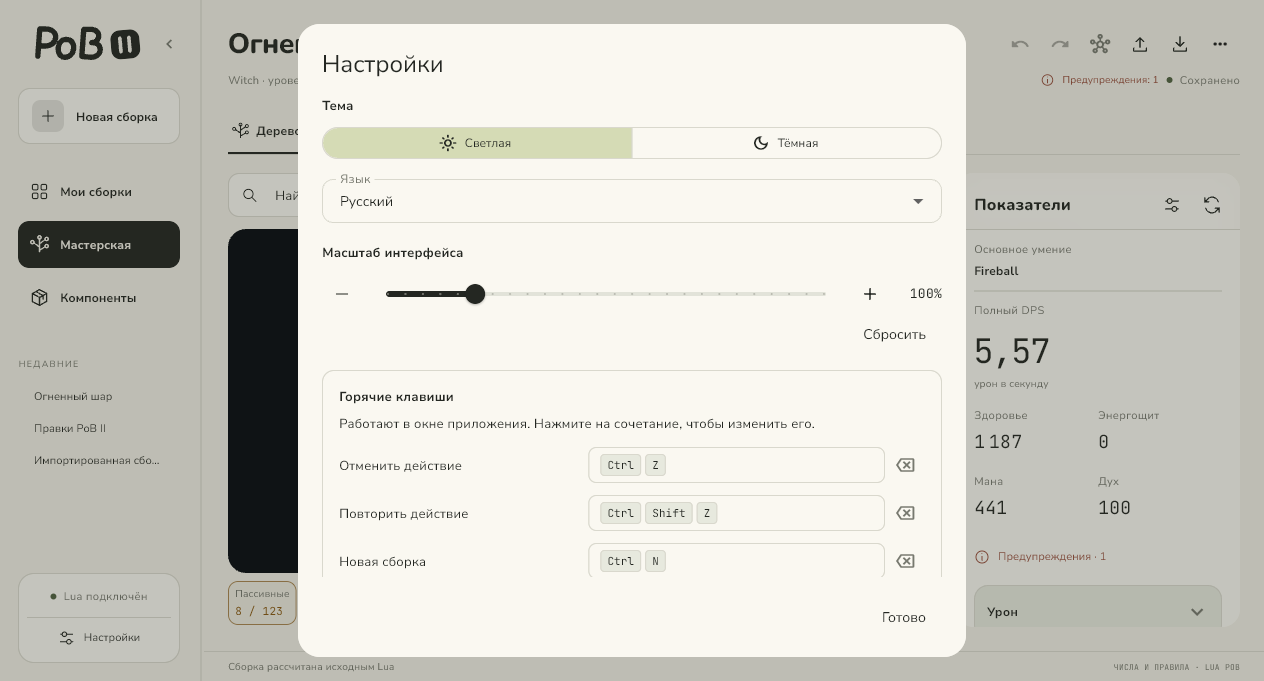
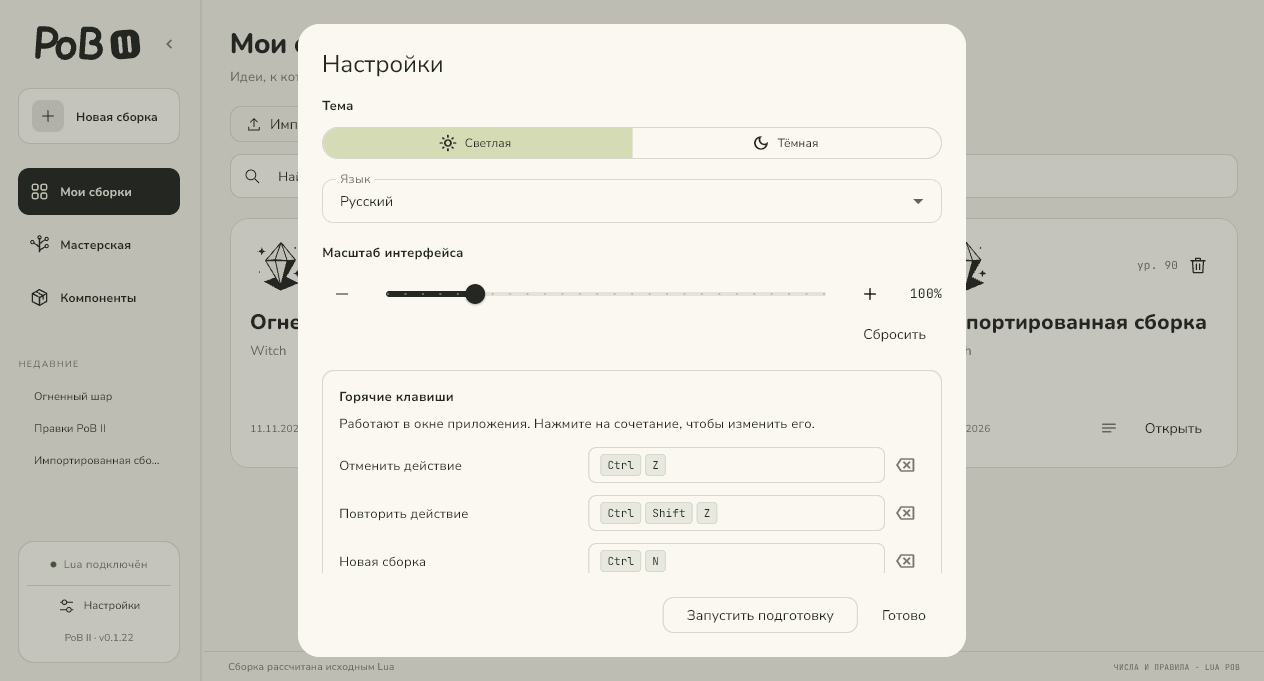
Обновить галерею PoB II для v0.1.22

diff --git a/docs/gallery.html b/docs/gallery.html
@@ -3,13 +3,13 @@
 <head>
   <meta charset="utf-8"><meta name="viewport" content="width=device-width, initial-scale=1">
   <meta name="theme-color" content="#f2efe5">
-  <meta name="description" content="Скриншоты PoB II v0.1.20. Дерево PoE 2, библиотека сборок, первый запуск, умения, экипировка и настройки." data-i18n-content="galleryDescription">
+  <meta name="description" content="Скриншоты PoB II v0.1.22. Дерево PoE 2, библиотека сборок, первый запуск, умения, экипировка и настройки." data-i18n-content="galleryDescription">
   <title data-i18n="galleryTitle">PoB II — галерея приложения</title>
   <link rel="icon" href="assets/brand/app-icon.svg" type="image/svg+xml">
   <link rel="stylesheet" href="styles/base.css"><link rel="stylesheet" href="styles/site.css?v=2"><link rel="stylesheet" href="styles/gallery.css">
   <script src="scripts/icons.js" defer></script><script src="scripts/site.js" defer></script><script src="scripts/gallery.js" defer></script>
   <link rel="stylesheet" href="styles/language.css">
-  <script src="scripts/site-strings.js" defer></script>
+  <script src="scripts/site-strings.js?v=0.1.22" defer></script>
   <script src="scripts/site-language.js" defer></script>
 </head>
 <body>
@@ -25,12 +25,12 @@
       </select><button class="icon-button" id="theme-toggle" aria-label="Включить тёмную тему" data-icon="moon" data-i18n-aria-label="darkTheme"></button></nav>
     </header>
     <main id="main">
-      <section class="gallery-heading reveal"><p class="eyebrow" data-i18n="galleryEyebrow">ГАЛЕРЕЯ / V0.1.20</p><h1><span data-i18n="galleryLineOne">Так выглядит</span><br><span data-i18n="galleryLineTwo">ваша мастерская.</span></h1><p data-i18n="galleryIntro">Снимки PoB II на Windows. Нажмите на снимок, чтобы рассмотреть детали. На телефоне оригинал откроется в отдельной вкладке для увеличения.</p></section>
-      <div class="gallery-section-heading"><h2 data-i18n="galleryRelease">В PoB II v0.1.20</h2></div>
+      <section class="gallery-heading reveal"><p class="eyebrow" data-i18n="galleryEyebrow">ГАЛЕРЕЯ / V0.1.22</p><h1><span data-i18n="galleryLineOne">Так выглядит</span><br><span data-i18n="galleryLineTwo">ваша мастерская.</span></h1><p data-i18n="galleryIntro">Снимки PoB II на Windows. Нажмите на снимок, чтобы рассмотреть детали. На телефоне оригинал откроется в отдельной вкладке для увеличения.</p></section>
+      <div class="gallery-section-heading"><h2 data-i18n="galleryRelease">В PoB II v0.1.22</h2></div>
       <div class="screenshot-grid">
-        <figure class="screenshot-card wide"><a target="_blank" rel="noopener" href="assets/screenshots/node-power.png" data-gallery data-title="Влияние узлов" data-description="Выберите характеристику, максимальное расстояние и состояние узлов. Строка результата перемещает фокус на узел, а список можно свернуть, сохранив подсветку." data-i18n-data-title="powerTitle" data-i18n-data-description="powerDescription"><img src="assets/screenshots/node-power.png" width="1028" height="681" alt="Фильтры и сворачиваемый список результатов над деревом пассивных умений" fetchpriority="high" data-i18n-alt="powerAlt"></a><figcaption><h3 data-i18n="powerCaption">Поиск узлов по характеристике</h3><p data-i18n="powerSummary">Фильтры сверху, результаты в компактном списке, дерево остаётся видно.</p></figcaption></figure>
+        <figure class="screenshot-card wide"><a target="_blank" rel="noopener" href="assets/screenshots/setup-wizard.png" data-gallery data-title="Мастер первого запуска" data-description="Мастер помогает установить компоненты, подключить Lua и найти папку сборок. Его можно открыть снова из настроек." data-i18n-data-title="firstRunTitle" data-i18n-data-description="firstRunDescription"><img src="assets/screenshots/setup-wizard.png" width="1264" height="681" alt="Окно мастера с пятью шагами и кнопкой «Установить компоненты»" fetchpriority="high" data-i18n-alt="firstRunAlt"></a><figcaption><h3 data-i18n="firstRunCaption">Мастер первого запуска</h3><p data-i18n="firstRunSummary">От установки компонентов до открытия первой сборки.</p></figcaption></figure>
+        <figure class="screenshot-card"><a target="_blank" rel="noopener" href="assets/screenshots/node-power.png" data-gallery data-title="Влияние узлов" data-description="Выберите характеристику, максимальное расстояние и состояние узлов. Строка результата перемещает фокус на узел, а список можно свернуть, сохранив подсветку." data-i18n-data-title="powerTitle" data-i18n-data-description="powerDescription"><img src="assets/screenshots/node-power.png" width="1028" height="681" alt="Фильтры и сворачиваемый список результатов над деревом пассивных умений" loading="lazy" data-i18n-alt="powerAlt"></a><figcaption><h3 data-i18n="powerCaption">Поиск узлов по характеристике</h3><p data-i18n="powerSummary">Фильтры сверху, результаты в компактном списке, дерево остаётся видно.</p></figcaption></figure>
         <figure class="screenshot-card"><a target="_blank" rel="noopener" href="assets/screenshots/library.png" data-gallery data-title="Мои сборки" data-description="Поиск и карточки XML из общей папки Path of Building. Расположение каталога и смена папки доступны по кнопке «Папка сборок»." data-i18n-data-title="libraryTitle" data-i18n-data-description="libraryDescription"><img src="assets/screenshots/library.png" width="1264" height="681" alt="Мои сборки с поиском, карточками персонажей и кнопкой «Папка сборок»" loading="lazy" data-i18n-alt="libraryAlt"></a><figcaption><h3 data-i18n="libraryTitle">Мои сборки</h3><p data-i18n="librarySummary">Быстрый поиск, импорт из PoB и доступ к общей папке.</p></figcaption></figure>
-        <figure class="screenshot-card"><a target="_blank" rel="noopener" href="assets/screenshots/first-run.png" data-gallery data-title="Первый запуск" data-description="PoB II сначала предложит загрузить недостающие компоненты, затем подключить папку сборок." data-i18n-data-title="firstRunTitle" data-i18n-data-description="firstRunDescription"><img src="assets/screenshots/first-run.png" width="1264" height="681" alt="Экран первого запуска с кнопкой «Подготовить PoB II»" loading="lazy" data-i18n-alt="firstRunAlt"></a><figcaption><h3 data-i18n="firstRunCaption">Пошаговая подготовка</h3><p data-i18n="firstRunSummary">На экране показано действие, нужное сейчас.</p></figcaption></figure>
       </div>
       <div class="gallery-section-heading"><h2 data-i18n="featuresTitle">Возможности приложения</h2><span data-i18n="featuresSummary">Дерево, умения, предметы и настройки</span></div>
       <div class="screenshot-grid">
@@ -38,7 +38,7 @@
         <figure class="screenshot-card"><a target="_blank" rel="noopener" href="assets/screenshots/tree-dark.png" data-gallery data-title="Подсказки и тёмная тема" data-description="Оригинальная подсказка узла в теме Gruvbox. Путь и влияние узла определяет Lua PoB." data-i18n-data-title="tooltipTitle" data-i18n-data-description="tooltipDescription"><img src="assets/screenshots/tree-dark.png" width="1028" height="681" alt="Тёмная тема Gruvbox и всплывающая подсказка узла" loading="lazy" data-i18n-alt="tooltipAlt"></a><figcaption><h3 data-i18n="tooltipCaption">Контекст при наведении</h3><p data-i18n="tooltipSummary">Описание узла и его влияние на сборку без постоянных подписей.</p></figcaption></figure>
         <figure class="screenshot-card"><a target="_blank" rel="noopener" href="assets/screenshots/skills.png" data-gallery data-title="Умения и камни поддержки" data-description="Список групп и каталог камней. Перетаскивание добавляет и убирает поддержки; совместимость проверяется в Lua." data-i18n-data-title="skillsTitle" data-i18n-data-description="skillsDescription"><img src="assets/screenshots/skills.png" width="1028" height="681" alt="Группы умений слева и каталог камней поддержки справа" loading="lazy" data-i18n-alt="skillsAlt"></a><figcaption><h3 data-i18n="skillsCaption">Своя комбинация камней</h3><p data-i18n="skillsSummary">Умение первым, поддержки рядом. Каталог и проверка совместимости.</p></figcaption></figure>
         <figure class="screenshot-card"><a target="_blank" rel="noopener" href="assets/screenshots/equipment.png" data-gallery data-title="Экипировка персонажа" data-description="Слоты по игровому образцу, два набора оружия и описание выбранного предмета из PoB." data-i18n-data-title="equipmentTitle" data-i18n-data-description="equipmentDescription"><img src="assets/screenshots/equipment.png" width="1028" height="681" alt="Схема экипировки с предметами и описанием выбранной ячейки" loading="lazy" data-i18n-alt="equipmentAlt"></a><figcaption><h3 data-i18n="equipmentCaption">Экипировка на своих местах</h3><p data-i18n="equipmentSummary">Схема персонажа, описание предмета, замена и два набора оружия.</p></figcaption></figure>
-        <figure class="screenshot-card"><a target="_blank" rel="noopener" href="assets/screenshots/settings.png" data-gallery data-title="Оформление и масштаб" data-description="Настройки темы, языка и масштаба интерфейса сохраняются после перезапуска приложения." data-i18n-data-title="settingsTitle" data-i18n-data-description="settingsDescription"><img src="assets/screenshots/settings.png" width="1264" height="681" alt="Окно настроек оформления и масштаба интерфейса" loading="lazy" data-i18n-alt="settingsAlt"></a><figcaption><h3 data-i18n="settingsCaption">Удобно именно вам</h3><p data-i18n="settingsSummary">Тема, язык, масштаб и горячие клавиши с сохранением выбора.</p></figcaption></figure>
+        <figure class="screenshot-card"><a target="_blank" rel="noopener" href="assets/screenshots/settings.png" data-gallery data-title="Оформление и масштаб" data-description="Тема, язык и масштаб сохраняются после перезапуска. Кнопка «Запустить подготовку» снова открывает мастер." data-i18n-data-title="settingsTitle" data-i18n-data-description="settingsDescription"><img src="assets/screenshots/settings.png" width="1264" height="681" alt="Окно настроек оформления и масштаба интерфейса" loading="lazy" data-i18n-alt="settingsAlt"></a><figcaption><h3 data-i18n="settingsCaption">Удобно именно вам</h3><p data-i18n="settingsSummary">Тема, язык, масштаб и горячие клавиши с сохранением выбора.</p></figcaption></figure>
         <figure class="screenshot-card wide"><a target="_blank" rel="noopener" href="assets/screenshots/components.png" data-gallery data-title="Компоненты и обновления" data-description="PoB и MCP устанавливаются отдельно. Перед переключением версии запускается настоящий Lua; предыдущую пару можно вернуть." data-i18n-data-title="componentsTitle" data-i18n-data-description="componentsDescription"><img src="assets/screenshots/components.png" width="1028" height="681" alt="Карточки Path of Building и MCP с версиями компонентов" loading="lazy" data-i18n-alt="componentsAlt"></a><figcaption><h3 data-i18n="componentsCaption">Расчёты на вашем компьютере</h3><p data-i18n="componentsSummary">Отдельные версии PoB и MCP, проверка совместимости и откат.</p></figcaption></figure>
       </div>
       <div class="gallery-section-heading"><h2 data-i18n="itemsTitle">Подбор предметов</h2></div>

diff --git a/docs/scripts/site-strings.js b/docs/scripts/site-strings.js
@@ -44,15 +44,15 @@ const siteStrings = {
   howCompare: ["Сравните варианты", "Compare your options", "比较不同方案"],
   howCompareText: ["Меняйте узлы, умения и предметы. Lua пересчитает показатели, а Undo/Redo позволит вернуться к предыдущему варианту.", "Change nodes, skills, and items. Lua updates your stats, and undo and redo let you revisit earlier versions.", "调整天赋节点、技能和物品。Lua 会重新计算属性，你可以通过撤销和重做回到之前的方案。"],
   toGallery: ["В галерею", "Open gallery", "打开截图画廊"],
-  galleryDescription: ["Скриншоты PoB II v0.1.20. Дерево PoE 2, библиотека сборок, первый запуск, умения, экипировка и настройки.", "PoB II v0.1.20 screenshots: PoE 2 passive tree, build library, first launch, skills, equipment, and settings.", "PoB II v0.1.20 截图：PoE 2 天赋树、流派库、首次启动、技能、装备和设置。"],
+  galleryDescription: ["Скриншоты PoB II v0.1.22. Дерево PoE 2, библиотека сборок, первый запуск, умения, экипировка и настройки.", "PoB II v0.1.22 screenshots: PoE 2 passive tree, build library, first launch, skills, equipment, and settings.", "PoB II v0.1.22 截图：PoE 2 天赋树、流派库、首次启动、技能、装备和设置。"],
   galleryTitle: ["PoB II — галерея приложения", "PoB II — App gallery", "PoB II — 应用截图"],
   home: ["Главная", "Home", "首页"],
   download: ["Скачать", "Download", "下载"],
-  galleryEyebrow: ["ГАЛЕРЕЯ / V0.1.20", "GALLERY / V0.1.20", "截图 / V0.1.20"],
+  galleryEyebrow: ["ГАЛЕРЕЯ / V0.1.22", "GALLERY / V0.1.22", "截图 / V0.1.22"],
   galleryLineOne: ["Так выглядит", "Take a look inside", "看看你的"],
   galleryLineTwo: ["ваша мастерская.", "your workshop.", "流派工坊。"],
   galleryIntro: ["Снимки PoB II на Windows. Нажмите на снимок, чтобы рассмотреть детали. На телефоне оригинал откроется в отдельной вкладке для увеличения.", "Screenshots of PoB II on Windows. Select a screenshot to see the details. On phones, the original opens in a new tab so you can zoom in.", "这些截图来自 Windows 版 PoB II。点击截图查看细节；在手机上，原图会在新标签页中打开，方便放大。"],
-  galleryRelease: ["В PoB II v0.1.20", "In PoB II v0.1.20", "PoB II v0.1.20"],
+  galleryRelease: ["В PoB II v0.1.22", "In PoB II v0.1.22", "PoB II v0.1.22"],
   powerTitle: ["Влияние узлов", "Node impact", "天赋节点影响"],
   powerDescription: ["Выберите характеристику, максимальное расстояние и состояние узлов. Строка результата перемещает фокус на узел, а список можно свернуть, сохранив подсветку.", "Choose a stat, maximum distance, and node allocation state. Select a result to focus the node. Collapse the list to keep the highlights and free up space.", "选择属性、最大距离和节点分配状态。点击结果可定位节点，收起列表后仍会保留高亮。"],
   powerAlt: ["Фильтры и сворачиваемый список результатов над деревом пассивных умений", "Filters and a collapsible results list above the passive tree", "天赋树上方的筛选项和可折叠的结果列表"],
@@ -62,11 +62,11 @@ const siteStrings = {
   libraryDescription: ["Поиск и карточки XML из общей папки Path of Building. Расположение каталога и смена папки доступны по кнопке «Папка сборок».", "Search builds in your shared Path of Building folder. Use Builds folder to view or change its location.", "搜索 Path of Building 共享文件夹中的流派。点击「流派文件夹」可查看或更改位置。"],
   libraryAlt: ["Мои сборки с поиском, карточками персонажей и кнопкой «Папка сборок»", "My Builds with search, character cards, and a Builds folder button", "「我的流派」页面，包含搜索、角色卡片和「流派文件夹」按钮"],
   librarySummary: ["Быстрый поиск, импорт из PoB и доступ к общей папке.", "Quick search, PoB import, and access to the shared folder.", "快速搜索、从 PoB 导入并访问共享文件夹。"],
-  firstRunTitle: ["Первый запуск", "First launch", "首次启动"],
-  firstRunDescription: ["PoB II сначала предложит загрузить недостающие компоненты, затем подключить папку сборок.", "PoB II prompts you to download missing components, then connect your builds folder.", "PoB II 会先提示下载缺少的组件，再连接流派文件夹。"],
-  firstRunAlt: ["Экран первого запуска с кнопкой «Подготовить PoB II»", "First-launch screen with the PoB II setup button", "带有 PoB II 准备按钮的首次启动页面"],
-  firstRunCaption: ["Пошаговая подготовка", "Step-by-step setup", "分步准备"],
-  firstRunSummary: ["На экране показано действие, нужное сейчас.", "See the next action at a glance.", "一眼就能看出下一步该做什么。"],
+  firstRunTitle: ["Мастер первого запуска", "First-run wizard", "首次启动向导"],
+  firstRunDescription: ["Мастер помогает установить компоненты, подключить Lua и найти папку сборок. Его можно открыть снова из настроек.", "The wizard installs the components, connects to Lua, and finds the builds folder. You can reopen it from Settings.", "向导帮助你安装组件、连接 Lua 并查找流派文件夹。可随时从设置中再次打开。"],
+  firstRunAlt: ["Окно мастера с пятью шагами и кнопкой «Установить компоненты»", "Setup wizard with five steps and an Install components button", "显示五个步骤和「安装组件」按钮的设置向导"],
+  firstRunCaption: ["Мастер первого запуска", "First-run wizard", "首次启动向导"],
+  firstRunSummary: ["От установки компонентов до открытия первой сборки.", "From installing components to opening your first build.", "从安装组件到打开你的第一个流派。"],
   featuresTitle: ["Возможности приложения", "App features", "应用功能"],
   featuresSummary: ["Дерево, умения, предметы и настройки", "Tree, skills, items, and settings", "天赋树、技能、物品和设置"],
   treeTitle: ["Дерево пассивных умений", "Passive skill tree", "天赋树"],
@@ -90,7 +90,7 @@ const siteStrings = {
   equipmentCaption: ["Экипировка на своих местах", "Gear in its place", "装备一目了然"],
   equipmentSummary: ["Схема персонажа, описание предмета, замена и два набора оружия.", "Character layout, item details, gear swapping, and two weapon sets.", "角色装备布局、物品详情、装备替换和两套武器。"],
   settingsTitle: ["Оформление и масштаб", "Appearance and scaling", "外观与缩放"],
-  settingsDescription: ["Настройки темы, языка и масштаба интерфейса сохраняются после перезапуска приложения.", "Theme, language, and interface scale settings are saved between launches.", "重启应用后，主题、语言和界面缩放设置会保留。"],
+  settingsDescription: ["Тема, язык и масштаб сохраняются после перезапуска. Кнопка «Запустить подготовку» снова открывает мастер.", "Theme, language, and interface scale are saved between launches. Start setup reopens the wizard.", "重启应用后会保留主题、语言和界面缩放设置。点击「开始设置」可再次打开向导。"],
   settingsAlt: ["Окно настроек оформления и масштаба интерфейса", "Settings dialog with appearance and interface scaling controls", "包含外观和界面缩放选项的设置窗口"],
   settingsCaption: ["Удобно именно вам", "Make it yours", "按你的习惯设置"],
   settingsSummary: ["Тема, язык, масштаб и горячие клавиши с сохранением выбора.", "Save your preferred theme, language, scale, and shortcuts.", "保存偏好的主题、语言、缩放比例和快捷键。"],

diff --git a/docs/assets/screenshots/README.md b/docs/assets/screenshots/README.md
@@ -1,12 +1,12 @@
 # Снимки работающего приложения
 
-Снимки сделаны 11 ноября 2026 года на Windows в PoB II v0.1.20, ревизия `8bc00aa`. Это исходные PNG Flutter из отдельных тестовых профилей. Игровые данные и показатели получены через PoB v0.23.1 и MCP v0.18.1.
+Снимки текущей галереи сделаны 11 ноября 2026 года на Windows в PoB II v0.1.22, ревизия `f39207c`. Это исходные PNG Flutter из отдельных тестовых профилей. Игровые данные и показатели получены через PoB v0.23.1 и MCP v0.18.1.
 
 - `tree-dark`, `node-power`, `components`: сценарий `integration_test/workspace_test.dart`.
 - `skills`: сценарий `integration_test/editors_test.dart`.
 - `equipment`, `comparison`, `trade`: сценарий `integration_test/equipment_test.dart`.
-- `first-run`, `library`, `tree-light`, `settings`: отдельный локальный прогон той же ревизии. Для библиотеки использованы тестовые XML из сквозной проверки, а экран первого запуска снят с пустым профилем.
+- `setup-wizard`, `library`, `tree-light`, `settings`: отдельный локальный прогон той же ревизии. Мастер снят с пустым профилем. Для дерева, библиотеки и настроек использованы тестовые XML из сквозной проверки.
 
-Снимки сценариев выпуска доступны в артефакте `ui-windows-x64`. [Проверки выпуска v0.1.20](https://github.com/Hecatoncheir/pob2_ui/actions/runs/42990332779)
+Снимки сценариев выпуска доступны в артефакте `ui-windows-x64`. [Проверки выпуска v0.1.22](https://github.com/Hecatoncheir/pob2_ui/actions/runs/43002582595)
 
 Изображения игровых объектов принадлежат Grinding Gear Games.
